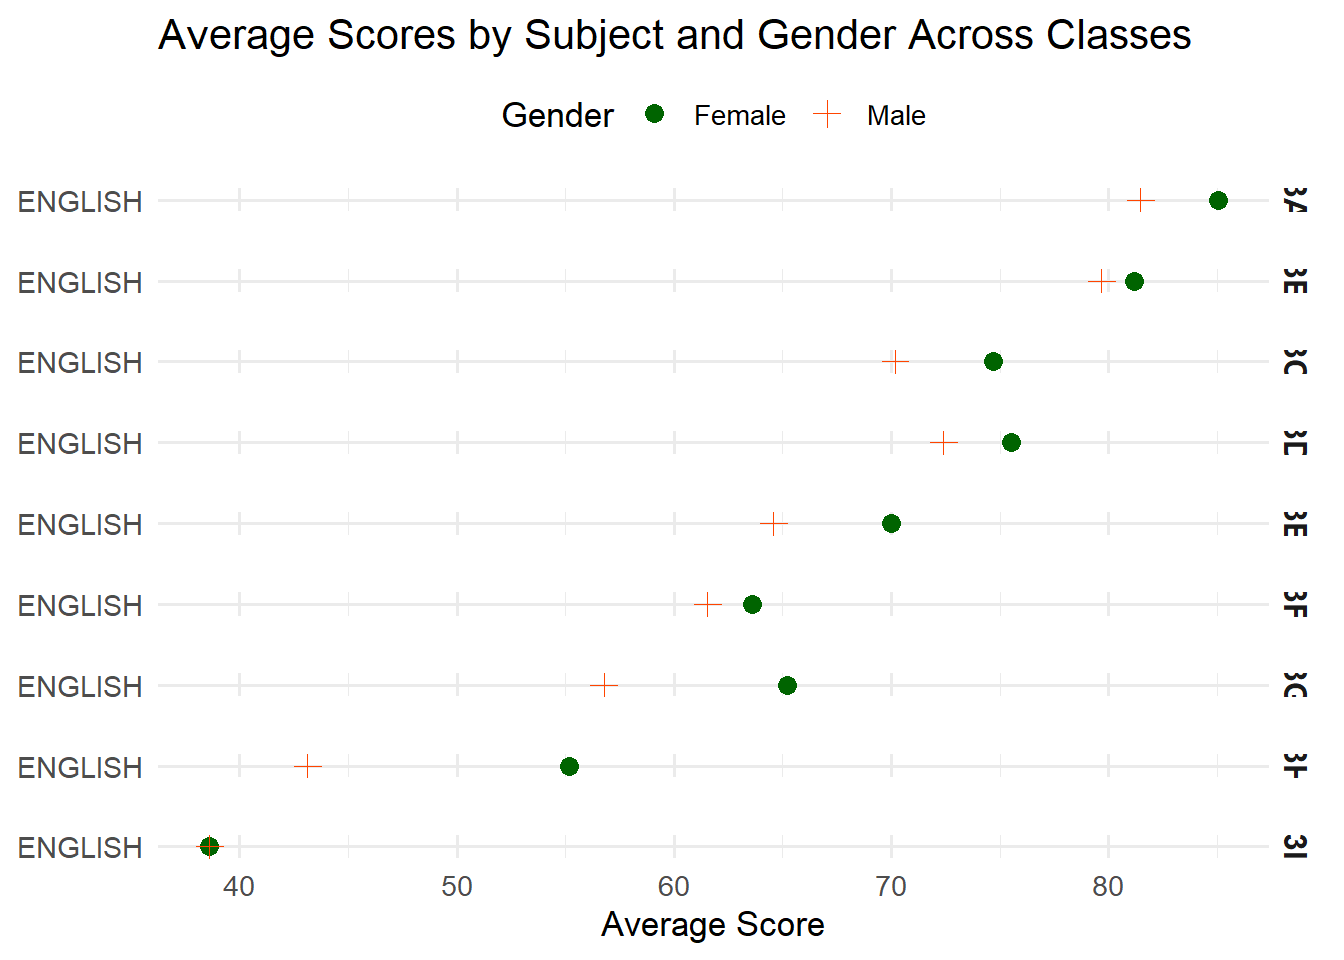
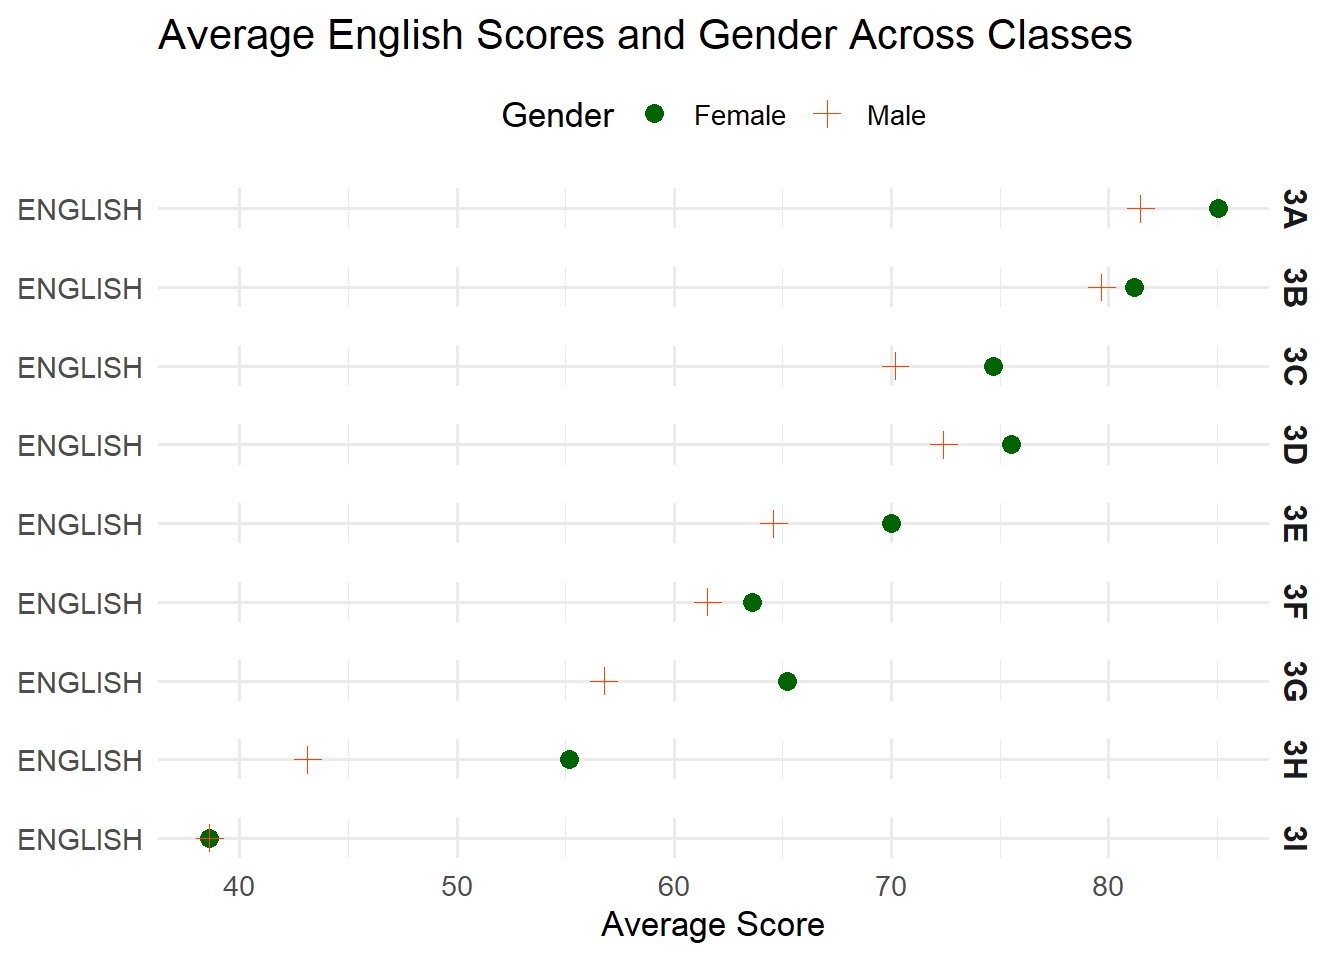
Edited Hands on exercise 1 files

diff --git a/_site/Hands-on_Ex/Hands-on_Ex01/Hands-on_Ex01.html b/_site/Hands-on_Ex/Hands-on_Ex01/Hands-on_Ex01.html
@@ -8,7 +8,7 @@
 
 <meta name="author" content="Liaw Ying Ting, Celin">
 
-<title>Hands-on Exercise 1 – ISSS608-VAA</title>
+<title>Hands-on Exercise 1 – Celin’s Visual Analytics Site</title>
 <style>
 code{white-space: pre-wrap;}
 span.smallcaps{font-variant: small-caps;}
@@ -65,6 +65,7 @@ pre > code.sourceCode > span > a:first-child::before { text-decoration: underlin
 <script src="../../site_libs/quarto-search/fuse.min.js"></script>
 <script src="../../site_libs/quarto-search/quarto-search.js"></script>
 <meta name="quarto:offset" content="../../">
+<link href="../../Assets/orange_cat_favicon.ico" rel="icon">
 <script src="../../site_libs/quarto-html/quarto.js"></script>
 <script src="../../site_libs/quarto-html/popper.min.js"></script>
 <script src="../../site_libs/quarto-html/tippy.umd.min.js"></script>
@@ -114,7 +115,7 @@ pre > code.sourceCode > span > a:first-child::before { text-decoration: underlin
       <div class="navbar-container container-fluid">
       <div class="navbar-brand-container mx-auto">
     <a class="navbar-brand" href="../../index.html">
-    <span class="navbar-title">ISSS608-VAA</span>
+    <span class="navbar-title">Celin’s Visual Analytics Site</span>
     </a>
   </div>
             <div id="quarto-search" class="" title="Search"></div>
@@ -131,6 +132,10 @@ pre > code.sourceCode > span > a:first-child::before { text-decoration: underlin
         <li>
     <a class="dropdown-item" href="../../Hands-on_Ex/Hands-on_Ex01/Hands-on_Ex01.html">
  <span class="dropdown-text">Hands-on Exercise 1</span></a>
+  </li>  
+        <li>
+    <a class="dropdown-item" href="../../Hands-on_Ex/Hands-on_Ex02/Hands-on_Ex02.html">
+ <span class="dropdown-text">Hands-on Exercise 2</span></a>
   </li>  
     </ul>
   </li>
@@ -185,6 +190,8 @@ pre > code.sourceCode > span > a:first-child::before { text-decoration: underlin
   <li><a href="#plotting-a-line-graph-of-the-scores-of-the-different-classes" id="toc-plotting-a-line-graph-of-the-scores-of-the-different-classes" class="nav-link" data-scroll-target="#plotting-a-line-graph-of-the-scores-of-the-different-classes">Plotting a Line graph of the scores of the different classes</a></li>
   <li><a href="#plotting-a-violin-plot-of-science-scores-in-the-different-classes" id="toc-plotting-a-violin-plot-of-science-scores-in-the-different-classes" class="nav-link" data-scroll-target="#plotting-a-violin-plot-of-science-scores-in-the-different-classes">Plotting a Violin Plot of science scores in the different classes</a></li>
   <li><a href="#plotting-age-sex-pyramid-using-class-as-proxy-for-age-group" id="toc-plotting-age-sex-pyramid-using-class-as-proxy-for-age-group" class="nav-link" data-scroll-target="#plotting-age-sex-pyramid-using-class-as-proxy-for-age-group">Plotting Age-Sex Pyramid (Using CLASS as Proxy for Age Group)</a></li>
+  <li><a href="#plotting-pareto-chart-of-race" id="toc-plotting-pareto-chart-of-race" class="nav-link" data-scroll-target="#plotting-pareto-chart-of-race">Plotting Pareto Chart of Race</a></li>
+  <li><a href="#plotting-trellis-display-for-english-scores" id="toc-plotting-trellis-display-for-english-scores" class="nav-link" data-scroll-target="#plotting-trellis-display-for-english-scores">Plotting Trellis Display for English Scores</a></li>
   </ul></li>
   </ul>
 </nav>
@@ -359,6 +366,9 @@ dbl (3): ENGLISH, MATHS, SCIENCE
 </div>
 </div>
 </div>
+</section>
+<section id="plotting-pareto-chart-of-race" class="level2">
+<h2 class="anchored" data-anchor-id="plotting-pareto-chart-of-race">Plotting Pareto Chart of Race</h2>
 <div class="cell">
 <div class="sourceCode cell-code" id="cb12"><pre class="sourceCode r code-with-copy"><code class="sourceCode r"><span id="cb12-1"><a href="#cb12-1" aria-hidden="true" tabindex="-1"></a>pacman<span class="sc">::</span><span class="fu">p_load</span>(qcc)</span>
 <span id="cb12-2"><a href="#cb12-2" aria-hidden="true" tabindex="-1"></a></span>
@@ -384,6 +394,9 @@ Pareto chart analysis for race_freq$n
   D   9.000000 322.000000   2.795031   100.000000</code></pre>
 </div>
 </div>
+</section>
+<section id="plotting-trellis-display-for-english-scores" class="level2">
+<h2 class="anchored" data-anchor-id="plotting-trellis-display-for-english-scores">Plotting Trellis Display for English Scores</h2>
 <div class="cell">
 <div class="sourceCode cell-code" id="cb14"><pre class="sourceCode r code-with-copy"><code class="sourceCode r"><span id="cb14-1"><a href="#cb14-1" aria-hidden="true" tabindex="-1"></a><span class="fu">library</span>(tidyverse)</span>
 <span id="cb14-2"><a href="#cb14-2" aria-hidden="true" tabindex="-1"></a></span>
@@ -406,7 +419,7 @@ Pareto chart analysis for race_freq$n
 <span id="cb14-19"><a href="#cb14-19" aria-hidden="true" tabindex="-1"></a>  <span class="fu">scale_color_manual</span>(<span class="at">values =</span> gender_colors) <span class="sc">+</span></span>
 <span id="cb14-20"><a href="#cb14-20" aria-hidden="true" tabindex="-1"></a>  <span class="fu">scale_shape_manual</span>(<span class="at">values =</span> gender_shapes) <span class="sc">+</span></span>
 <span id="cb14-21"><a href="#cb14-21" aria-hidden="true" tabindex="-1"></a>  <span class="fu">labs</span>(</span>
-<span id="cb14-22"><a href="#cb14-22" aria-hidden="true" tabindex="-1"></a>    <span class="at">title =</span> <span class="st">"Average Scores by Subject and Gender Across Classes"</span>,</span>
+<span id="cb14-22"><a href="#cb14-22" aria-hidden="true" tabindex="-1"></a>    <span class="at">title =</span> <span class="st">"Average English Scores and Gender Across Classes"</span>,</span>
 <span id="cb14-23"><a href="#cb14-23" aria-hidden="true" tabindex="-1"></a>    <span class="at">x =</span> <span class="st">"Average Score"</span>,</span>
 <span id="cb14-24"><a href="#cb14-24" aria-hidden="true" tabindex="-1"></a>    <span class="at">y =</span> <span class="cn">NULL</span>,</span>
 <span id="cb14-25"><a href="#cb14-25" aria-hidden="true" tabindex="-1"></a>    <span class="at">color =</span> <span class="st">"Gender"</span>,</span>
@@ -416,7 +429,7 @@ Pareto chart analysis for race_freq$n
 <span id="cb14-29"><a href="#cb14-29" aria-hidden="true" tabindex="-1"></a>  <span class="fu">theme</span>(</span>
 <span id="cb14-30"><a href="#cb14-30" aria-hidden="true" tabindex="-1"></a>    <span class="at">strip.text =</span> <span class="fu">element_text</span>(<span class="at">face =</span> <span class="st">"bold"</span>, <span class="at">size =</span> <span class="dv">12</span>),</span>
 <span id="cb14-31"><a href="#cb14-31" aria-hidden="true" tabindex="-1"></a>    <span class="at">axis.text.y =</span> <span class="fu">element_text</span>(<span class="at">size =</span> <span class="dv">11</span>, <span class="at">hjust =</span> <span class="dv">1</span>),  <span class="co"># Justified and consistent label styling</span></span>
-<span id="cb14-32"><a href="#cb14-32" aria-hidden="true" tabindex="-1"></a>    <span class="at">panel.spacing =</span> <span class="fu">unit</span>(<span class="fl">1.5</span>, <span class="st">"lines"</span>),</span>
+<span id="cb14-32"><a href="#cb14-32" aria-hidden="true" tabindex="-1"></a>    <span class="at">panel.spacing =</span> <span class="fu">unit</span>(<span class="dv">1</span>, <span class="st">"lines"</span>),</span>
 <span id="cb14-33"><a href="#cb14-33" aria-hidden="true" tabindex="-1"></a>    <span class="at">legend.position =</span> <span class="st">"top"</span>,</span>
 <span id="cb14-34"><a href="#cb14-34" aria-hidden="true" tabindex="-1"></a>    <span class="at">strip.background =</span> <span class="fu">element_blank</span>(),  <span class="co"># Optional: remove background for facet labels</span></span>
 <span id="cb14-35"><a href="#cb14-35" aria-hidden="true" tabindex="-1"></a>    <span class="at">axis.title.y =</span> <span class="fu">element_blank</span>()  <span class="co"># Remove y-axis title for more space</span></span>

diff --git a/_site/In-Class _Ex/In-Class_Ex01/In-Class_Ex01.html b/_site/In-Class _Ex/In-Class_Ex01/In-Class_Ex01.html
@@ -8,7 +8,7 @@
 
 <meta name="author" content="Liaw Ying Ting, Celin">
 
-<title>In-Class Exercise 1 – ISSS608-VAA</title>
+<title>In-Class Exercise 1 – Celin’s Visual Analytics Site</title>
 <style>
 code{white-space: pre-wrap;}
 span.smallcaps{font-variant: small-caps;}
@@ -31,6 +31,7 @@ ul.task-list li input[type="checkbox"] {
 <script src="../../site_libs/quarto-search/fuse.min.js"></script>
 <script src="../../site_libs/quarto-search/quarto-search.js"></script>
 <meta name="quarto:offset" content="../../">
+<link href="../../Assets/orange_cat_favicon.ico" rel="icon">
 <script src="../../site_libs/quarto-html/quarto.js"></script>
 <script src="../../site_libs/quarto-html/popper.min.js"></script>
 <script src="../../site_libs/quarto-html/tippy.umd.min.js"></script>
@@ -80,7 +81,7 @@ ul.task-list li input[type="checkbox"] {
       <div class="navbar-container container-fluid">
       <div class="navbar-brand-container mx-auto">
     <a class="navbar-brand" href="../../index.html">
-    <span class="navbar-title">ISSS608-VAA</span>
+    <span class="navbar-title">Celin’s Visual Analytics Site</span>
     </a>
   </div>
             <div id="quarto-search" class="" title="Search"></div>
@@ -97,6 +98,10 @@ ul.task-list li input[type="checkbox"] {
         <li>
     <a class="dropdown-item" href="../../Hands-on_Ex/Hands-on_Ex01/Hands-on_Ex01.html">
  <span class="dropdown-text">Hands-on Exercise 1</span></a>
+  </li>  
+        <li>
+    <a class="dropdown-item" href="../../Hands-on_Ex/Hands-on_Ex02/Hands-on_Ex02.html">
+ <span class="dropdown-text">Hands-on Exercise 2</span></a>
   </li>  
     </ul>
   </li>
